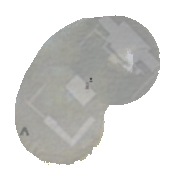
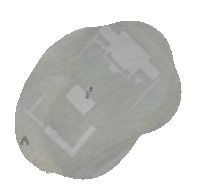
燕云补采第 10–15 点，小地图拼图覆盖到东半边和宝箱；定位可多个参考图依次试
- minimap_locate.py 支持多次采集（survey<N>/ 各自一套帧、锚点、轨迹），拼图合并所有采集
- track --relocate：逐帧链条漂移超过 4 px 的段改用已有参考图 locate 的可信读数定位
- eval 的留出集按拼图实际用了哪些趟自动划分；第 4 趟（东半边 244 帧）留出评测 100% 在 ±6 px 内，中位 0.5
- locate/cixin_mosaic 用 s1–s4 重新导出；宝箱点从认不出（0.17）变成 0.73、和 where() 差 0.3 px
- move.js goto / route.js locate 可传参考图数组，前一个认不出再试下一个；route_bench --refs 用 a+b 表示组合

diff --git a/workspaces/WhereWindsMeet/skills/move.js b/workspaces/WhereWindsMeet/skills/move.js
@@ -21,12 +21,13 @@
 //   sprint: true             hold dodge until its icon turns gold (sprinting), then let go; again if it drops;
 //                            given up after two presses that did not start one (dungeons may not allow it)
 //   {turn: 150}              drag the camera by this many px (right: positive), report the heading before and after
-//   {goto: [[-80, 110], [-72, 84]], ref: "locate/cixin_mosaic", from: [-108, 115]}  run through the points and stop
-//                            at the last (positions: big map px from the stronghold icon), knowing where it is on
-//                            every frame without the big map: locate() finds the minimap in the reference near where
-//                            dead reckoning (camera heading, joystick direction, sprint / run speed) puts it, and a
-//                            good match resets the reckoning. Sprints while far, lets go and runs the last stretch
-//                            so it does not overshoot. Stuck: the reckoning moves, the matches do not. See goTo()
+//   {goto: [[-80, 110], [-72, 84]], ref: ["locate/cixin_mosaic", "locate/cixin_bigmap"], from: [-108, 115]}
+//                            run through the points and stop at the last (positions: big map px from the stronghold
+//                            icon), knowing where it is on every frame without the big map: locate() finds the minimap
+//                            in the reference (the next one where the first cannot tell) near where dead reckoning
+//                            (camera heading, joystick direction, sprint / run speed) puts it, and a good match resets
+//                            the reckoning. Sprints while far, lets go and runs the last stretch so it does not
+//                            overshoot. Stuck: the reckoning moves, the matches do not. See goTo()
 import { angleDiff, bearingOf, cameraHeading, CENTER, enemies, onZone, zone } from "./lib/minimap.js";
 import { recognize as pickupPoint } from "./auto_pickup.js";
 import { calm } from "./lib/hud.js";
@@ -181,12 +182,16 @@ const bearingTo = (from, to) => (Math.atan2(to[0] - from[0], -(to[1] - from[1]))
 const distTo = (a, b) => Math.hypot(b[0] - a[0], b[1] - a[1]);
 
 /**
- * locate() near `prior` (null: the whole reference); the match when it can be trusted, else null.
- * @param {string} ref @param {Image} image @param {number | null} cam @param {Point | null} prior @param {number} radius
+ * locate() near `prior` (null: the whole reference) in each reference in turn (a stitched one where it was surveyed,
+ * the big map where not); the first match that can be trusted, else null.
+ * @param {string | string[]} ref @param {Image} image @param {number | null} cam @param {Point | null} prior @param {number} radius
  */
 function fix(ref, image, cam, prior, radius) {
-    const r = locate(ref, { image, cam, prior: prior ?? undefined, radius });
-    return r && r.score >= FIX_MIN && r.score - r.second >= FIX_MARGIN ? r : null;
+    for (const one of Array.isArray(ref) ? ref : [ref]) {
+        const r = locate(one, { image, cam, prior: prior ?? undefined, radius });
+        if (r && r.score >= FIX_MIN && r.score - r.second >= FIX_MARGIN) return r;
+    }
+    return null;
 }
 
 /**
@@ -198,7 +203,7 @@ function fix(ref, image, cam, prior, radius) {
  * SPRINT_STOP + 6 px off), letting go at SPRINT_STOP to end the sprint, running the rest.
  * Ends: arrived | stuck (no closer for GO_STUCK_MS after every way out) | astray | lost (no match for LOST_MS) |
  * fight (the top right icons hide) | time.
- * @param {{goto: Point[], ref: string, from?: Point, reach?: number, ms?: number, sprint?: boolean, face?: boolean}} args
+ * @param {{goto: Point[], ref: string | string[], from?: Point, reach?: number, ms?: number, sprint?: boolean, face?: boolean}} args
  */
 function goTo(args) {
     const path = args.goto;
@@ -380,7 +385,7 @@ function goTo(args) {
 
 /**
  * @param {{face?: boolean, bearing?: number, rel?: number, enemy?: boolean, zone?: boolean, zoneAt?: number, snap?: string, reachPx?: number, snapMin?: number, expect?: Point, lostMs?: number, near?: number, lockAt?: number, capture?: boolean, ms?: number, sprint?: boolean,
- *          pickup?: boolean, turn?: number, step?: number, goto?: Point[], ref?: string, from?: Point, reach?: number}} args
+ *          pickup?: boolean, turn?: number, step?: number, goto?: Point[], ref?: string | string[], from?: Point, reach?: number}} args
  * @param {SkillContext} [ctx]
  */
 export default function (args, ctx) {

diff --git a/workspaces/WhereWindsMeet/skills/route.js b/workspaces/WhereWindsMeet/skills/route.js
@@ -10,7 +10,7 @@
 // everything is done) taps 据点宝箱, 确认领取 with the panel's defaults (领取三份, 扫荡 9, teacher's choice, message 227)
 // and 继续 through the 攻占 result pages.
 //   {points: [{at: [-108, 115], snap: "route/cixin/00.png"}, ...], from: 1, to: 4}
-//   locate: "locate/cixin_mosaic"  instead: no snapshots and no big map on the way; move's goto knows where the character
+//   locate: ["locate/cixin_mosaic", "locate/cixin_bigmap"]  instead (one reference or several, tried in turn): no snapshots and no big map on the way; move's goto knows where the character
 //                            is on every frame (locate() of the minimap in that reference, dead reckoning between) and
 //                            runs through the points, stopping only where something is done and at the end.
 //                            start: where it starts (default: the point before `from`); check: true stops at every
@@ -129,7 +129,7 @@ function act(p, last) {
 
 /**
  * Continuous mode (args.locate): legs of move's goto from stop to stop.
- * @param {{points: {at: Point, name?: string, cam?: number, do?: string}[], from?: number, to?: number, reach?: number, locate: string, start?: Point, check?: boolean, nodo?: boolean}} args
+ * @param {{points: {at: Point, name?: string, cam?: number, do?: string}[], from?: number, to?: number, reach?: number, locate: string | string[], start?: Point, check?: boolean, nodo?: boolean}} args
  */
 function follow(args) {
     const from = args.from ?? 1;
@@ -185,7 +185,7 @@ function follow(args) {
     return out;
 }
 
-/** @param {{points: {at: Point, name?: string, snap?: string, cam?: number, do?: string}[], from?: number, to?: number, reach?: number, speed?: number, anchors?: string, locate?: string, start?: Point, check?: boolean, nodo?: boolean}} args */
+/** @param {{points: {at: Point, name?: string, snap?: string, cam?: number, do?: string}[], from?: number, to?: number, reach?: number, speed?: number, anchors?: string, locate?: string | string[], start?: Point, check?: boolean, nodo?: boolean}} args */
 export default function (args) {
     if (args.locate) return follow(/** @type {any} */ (args));
     const reach = args.reach ?? 6;

diff --git a/scripts/minimap_locate.py b/scripts/minimap_locate.py
@@ -11,8 +11,9 @@ px (fully zoomed in) from the stronghold icon, x east / y south, as stronghold.j
     uv run --extra cv python scripts/minimap_locate.py eval data/wwm       # errors per image, source and preprocessing
     uv run --extra cv python scripts/minimap_locate.py export data/wwm --runs s1,s2   # the app's references
 
-Data layout (data/wwm): survey1/ (grab_frames.py output: <seq>.jpg, frames.jsonl), anchors.json ([{run, n, seq,
-x, y, cam}], from route.js `anchors`; their screenshots in the workspace's teaching/survey/<run>/), bigmap/*.png +
+Data layout (data/wwm): survey<N>/ per grab_frames.py run (<seq>.jpg, frames.jsonl; anchors.json [{run, n, seq, x,
+y, cam}] from route.js `anchors`, their screenshots in the workspace's teaching/survey/<run>/; frames.npz and
+track.json made by cache / track --survey survey<N>), bigmap/*.png +
 bigmap/shots.json (big map screenshots and where the icon is), map_header.png (the big map's 单人 / 多人 header).
 
 What the survey showed: the minimap zooms in about 2x in the courtyard (1 minimap px = 1.15 big map px there, 2.3
@@ -403,9 +404,31 @@ def best_of(d, refs: list[Ref], p: Prep, prior=None, radius=40, cam=None):
 # ---- data
 
 
-def load_frames(root: Path):
-    fr = [json.loads(l) for l in open(root / "survey1" / "frames.jsonl", encoding="utf-8")]
-    return [(f["seq"], root / "survey1" / f"{f['seq']}.jpg") for f in fr]
+def load_frames(sd: Path):
+    fr = [json.loads(l) for l in open(sd / "frames.jsonl", encoding="utf-8")]
+    return [(f["seq"], sd / f"{f['seq']}.jpg") for f in fr]
+
+
+def surveys(root: Path) -> list[Path]:
+    """The survey directories (a grab_frames.py run each: frame numbers restart when the app restarts)."""
+    return sorted(d for d in root.glob("survey*") if (d / "anchors.json").exists())
+
+
+_NPZ: dict[Path, dict] = {}
+
+
+def frames_of(sd: Path) -> dict:
+    """A survey's frames.npz (`cache`), with idx: frame number -> row."""
+    if sd not in _NPZ:
+        z = dict(np.load(sd / "frames.npz"))
+        z["idx"] = {int(s): i for i, s in enumerate(z["seq"])}
+        _NPZ[sd] = z
+    return _NPZ[sd]
+
+
+def tracks(root: Path) -> list[dict]:
+    """Tracked frames of every survey (`track`), each with its survey's directory name."""
+    return [t | {"survey": sd.name} for sd in surveys(root) if (sd / "track.json").exists() for t in json.load(open(sd / "track.json"))]
 
 
 _HEADER = None
@@ -422,10 +445,10 @@ def in_world(img: np.ndarray, root: Path) -> bool:
     return heading(disc(img)) is not None
 
 
-def cache_frames(root: Path) -> None:
-    """frames.npz: every grabbed frame's minimap disc, whether it is the world screen, the camera heading."""
+def cache_frames(root: Path, sd: Path) -> None:
+    """<survey>/frames.npz: every grabbed frame's minimap disc, whether it is the world screen, the camera heading."""
     seqs, discs, world, cams = [], [], [], []
-    for seq, p in load_frames(root):
+    for seq, p in load_frames(sd):
         img = imread(p)
         if img is None:
             continue
@@ -433,7 +456,7 @@ def cache_frames(root: Path) -> None:
         w = in_world(img, root)
         c = heading(d) if w else None
         seqs.append(seq), discs.append(d), world.append(w), cams.append(np.nan if c is None else c)
-    np.savez(root / "frames.npz", seq=np.array(seqs), world=np.array(world), disc=np.array(discs), cam=np.array(cams))
+    np.savez(sd / "frames.npz", seq=np.array(seqs), world=np.array(world), disc=np.array(discs), cam=np.array(cams))
 
 
 def good_frames(world: np.ndarray) -> np.ndarray:
@@ -469,17 +492,22 @@ def _chain(D, cam, fr, p: Prep, k: float, start: np.ndarray, step_max=5.0, sc_mi
     return np.array(pos), scores
 
 
-def track(root: Path, p: Prep) -> list[dict]:
+MAX_DRIFT = 4.0  # a chain that missed its end anchor by more than this is not trusted (big map px)
+
+
+def track(root: Path, sd: Path, p: Prep, relocate: list[tuple[list[Ref], Prep]] | None = None) -> list[dict]:
     """Positions of the grabbed frames between anchors (route.js `anchors`, where() before each look at the map).
     Each stretch between two looks starts zoomed out (closing the map resets the minimap) and, in the courtyard,
     zooms in after a second or two. Frames are told apart by which zoom of the big map they match better (only the
     zoom is taken from it); the zoomed-out part is chained forward from the anchor it starts at, the zoomed-in part
     backward from the anchor it ends at; a stretch that stays zoomed out is chained forward and its drift at the end
-    spread along the way."""
-    z = np.load(root / "frames.npz")
+    spread along the way. Long runs across the courtyard can wobble off by 20 px and more: with `relocate`
+    (references and their preprocessing, tried in turn), the frames of a stretch that drifted more than MAX_DRIFT are
+    placed by locate() instead (near where the anchors put them; only trusted matches, the rest left out)."""
+    z = frames_of(sd)
     seq, D, cam = z["seq"], z["disc"], z["cam"]
     good = good_frames(z["world"])
-    anchors = json.load(open(root / "anchors.json"))
+    anchors = json.load(open(sd / "anchors.json"))
     refs = [bigmap_ref(root, "out"), bigmap_ref(root, "in")]
     out, fits = [], []
     for a0, a1 in zip(anchors, anchors[1:]):
@@ -509,7 +537,19 @@ def track(root: Path, p: Prep) -> list[dict]:
             steps = np.r_[0, np.cumsum(np.linalg.norm(np.diff(pos, axis=0), axis=1))]
             drift = B - pos[-1]
             pos = pos + np.outer(steps / max(steps[-1], 1e-6), drift)
-            rows += [(fr[t], pos[t], zm, "spread") for t in range(len(fr))]
+            if relocate and np.linalg.norm(drift) > MAX_DRIFT:
+                n0 = len(rows)
+                for t, i in enumerate(fr):
+                    prior = tuple(A + (B - A) * t / max(1, len(fr) - 1))
+                    c = None if np.isnan(cam[i]) else float(cam[i])
+                    for refs, q in relocate:
+                        r = best_of(D[i], refs, q, prior, 45, c)
+                        if r and r[0]["score"] >= 0.4 and r[0]["score"] - r[0]["second"] >= 0.1:
+                            rows.append((i, np.array([r[0]["x"], r[0]["y"]]), zm, "locate"))
+                            break
+                print(seg, "relocated", len(rows) - n0, "of", len(fr))
+            else:
+                rows += [(fr[t], pos[t], zm, "spread") for t in range(len(fr))]
             fits.append((zm, raw[-1], B - A, steps[-1]))
             print(seg, zm, len(fr), "drift", np.round(drift, 1), "path", round(float(steps[-1]), 1))
         else:
@@ -523,14 +563,15 @@ def track(root: Path, p: Prep) -> list[dict]:
             print(seg, "out", n_out, "in", len(fr) - n_in, "of", len(fr))
         for i, q, zm, how in sorted(rows, key=lambda r: r[0]):
             out.append({"seq": int(seq[i]), "x": round(float(q[0]), 2), "y": round(float(q[1]), 2), "zoom": zm,
-                        "how": how, "seg": seg, "run": a0["run"][:2]})
+                        "how": how, "seg": seg, "run": a0["run"][:2],
+                        **({"drift": round(float(np.linalg.norm(drift)), 1)} if how == "spread" else {})})
     for zm in ZOOMS:  # the zoom that fits the chains best (stretches that moved, that did not go astray)
         f = [(c, d) for z_, c, d, path in fits if z_ == zm and np.linalg.norm(d) > 8 and path < 2 * np.linalg.norm(d) + 10]
         if f:
             c, d = np.array([x[0] for x in f]), np.array([x[1] for x in f])
             k = (c * d).sum() / (c * c).sum()
             print(zm, "zoom fit", round(float(k), 3), "from", len(f), "stretches; residuals", np.round(np.linalg.norm(d - k * c, axis=1), 1))
-    json.dump(out, open(root / "track.json", "w"), indent=0)
+    json.dump(out, open(sd / "track.json", "w"), indent=0)
     return out
 
 
@@ -576,12 +617,9 @@ def stitch(root: Path, zoom: str, runs=("s1",), k: float | None = None, max_drif
     Returns (image, valid, origin, spread): spread is the median absolute deviation of the samples, a measure of how
     well the frames line up (smaller is better; used to fit k)."""
     k = k or ZOOMS[zoom]
-    tr = [t for t in json.load(open(root / "track.json")) if t["run"] in {r[:2] for r in runs} and t["zoom"] == zoom]
+    tr = [t for t in tracks(root) if t["run"] in {r[:2] for r in runs} and t["zoom"] == zoom]
     bad = set(json.load(open(root / "track_drift.json")).get("bad", [])) if (root / "track_drift.json").exists() else set()
-    tr = [t for t in tr if t["seg"] not in bad]
-    z = np.load(root / "frames.npz")
-    idx = {int(s): i for i, s in enumerate(z["seq"])}
-    D, cam = z["disc"], z["cam"]
+    tr = [t for t in tr if t["seg"] not in bad and t.get("drift", 0) <= max_drift]
     xs, ys = [t["x"] for t in tr], [t["y"] for t in tr]
     pad = C + 4
     x0, y0 = min(xs) / k - pad, min(ys) / k - pad
@@ -593,11 +631,12 @@ def stitch(root: Path, zoom: str, runs=("s1",), k: float | None = None, max_drif
         if last is not None and math.hypot(u - last[0], v - last[1]) < step:
             continue
         last = (u, v)
-        i = idx[t["seq"]]
-        c = None if np.isnan(cam[i]) else float(cam[i])
-        m = disc_mask(D[i], Prep(zone="mask", sat_max=0), c)
+        z = frames_of(root / t["survey"])
+        i = z["idx"][t["seq"]]
+        c = None if np.isnan(z["cam"][i]) else float(z["cam"][i])
+        m = disc_mask(z["disc"][i], Prep(zone="mask", sat_max=0), c)
         M = np.float32([[1, 0, u - C], [0, 1, v - C]])
-        stack.append(cv2.warpAffine(D[i], M, (w, h), flags=cv2.INTER_LINEAR))
+        stack.append(cv2.warpAffine(z["disc"][i], M, (w, h), flags=cv2.INTER_LINEAR))
         masks.append(cv2.warpAffine(m.astype(np.uint8), M, (w, h), flags=cv2.INTER_NEAREST) > 0)
     S = np.array(stack).astype(np.float32)
     V = np.array(masks)
@@ -672,12 +711,12 @@ PREPS = {
 }
 
 
-def eval_items(root: Path, holdout=("s2",), every: int = 2):
+def eval_items(root: Path, holdout=("s2", "s4"), every: int = 2):
     """(name, disc, truth, category, split) to test on: the anchor screenshots, the known teaching screenshots, and
     every `every`-th tracked frame. split: train (its run went into the mosaic) / test."""
     items = []
     inside = lambda x, y: y < 52 and x > -48  # past the gate
-    for a in json.load(open(root / "anchors.json")):
+    for a in (a for sd in surveys(root) for a in json.load(open(sd / "anchors.json"))):
         d = disc(imread(WS / "teaching" / "survey" / a["run"] / f"{a['n']:03d}.png")).copy()
         split = "test" if a["run"][:2] in holdout else "train"
         items.append((f"anchor {a['run']}/{a['n']}", d, (a["x"], a["y"]), "in" if inside(a["x"], a["y"]) else "out", split))
@@ -686,13 +725,12 @@ def eval_items(root: Path, holdout=("s2",), every: int = 2):
         d = disc(imread((known if known.is_dir() else WS / "teaching" / "explore") / f"{f}.png")).copy()
         cat = ("in-zone" if zone_region(d).any() else "in") if inside(*xy) else ("out-zone" if zone_region(d).any() else "out")
         items.append((f"known {f}", d, xy, cat, "test"))
-    z = np.load(root / "frames.npz")
-    idx = {int(s): i for i, s in enumerate(z["seq"])}
     bad = set(json.load(open(root / "track_drift.json")).get("bad", []))
-    tr = [t for t in json.load(open(root / "track.json")) if t["seg"] not in bad]
+    tr = [t for t in tracks(root) if t["seg"] not in bad and t.get("drift", 0) <= MAX_DRIFT]
     for t in tr[::every]:
         split = "test" if t["run"] in holdout else "train"
-        items.append((f"frame {t['seq']}", z["disc"][idx[t["seq"]]], (t["x"], t["y"]),
+        z = frames_of(root / t["survey"])
+        items.append((f"frame {t['survey']}/{t['seq']}", z["disc"][z["idx"][t["seq"]]], (t["x"], t["y"]),
                       "in" if inside(t["x"], t["y"]) else "out", split))
     return items
 
@@ -796,6 +834,8 @@ def main() -> None:
     ap = argparse.ArgumentParser()
     ap.add_argument("cmd", choices=["cache", "bigmap", "track", "stitch", "eval", "export"])
     ap.add_argument("root", type=Path)
+    ap.add_argument("--survey", default="survey1", help="cache / track: the survey directory")
+    ap.add_argument("--relocate", default="", help="track: a mosaic directory (e.g. mosaic_s1_s2) to place drifted stretches with")
     ap.add_argument("--runs", default="s1", help="stitch: the survey runs that make the mosaic (the rest test it)")
     ap.add_argument("--preps", default="", help="eval: preprocessings to try (PREPS keys), default all")
     ap.add_argument("--every", type=int, default=2, help="eval: every n-th tracked frame")
@@ -806,12 +846,17 @@ def main() -> None:
     if a.native:
         global NATIVE
         NATIVE = Native(a.native)
+    sd = a.root / a.survey
     if a.cmd == "cache":
-        cache_frames(a.root)
+        cache_frames(a.root, sd)
     elif a.cmd == "bigmap":
         build_bigmap(a.root)
     elif a.cmd == "track":
-        track(a.root, TRACK_PREP)
+        rel = None
+        if a.relocate:  # the references made so far: the mosaic, then the big map
+            rel = [([mosaic_ref(a.root, z, a.relocate) for z in ZOOMS], PREPS[APP_PREPS["mosaic"]]),
+                   ([bigmap_ref(a.root, z) for z in ZOOMS], PREPS[APP_PREPS["bigmap"]])]
+        track(a.root, sd, TRACK_PREP, rel)
     elif a.cmd == "stitch":
         for zoom in ZOOMS:
             save_mosaic(a.root, zoom, a.runs.split(","), ZOOMS[zoom])
@@ -820,7 +865,9 @@ def main() -> None:
     elif a.cmd == "eval":
         sources = {"bigmap": [bigmap_ref(a.root, z) for z in ZOOMS], "mosaic": [mosaic_ref(a.root, z) for z in ZOOMS]}
         preps = {k: PREPS[k] for k in a.preps.split(",")} if a.preps else PREPS
-        items = eval_items(a.root, every=a.every)
+        used = set(json.load(open(a.root / "mosaic" / "in.json"))["runs"])  # the rest tests the mosaic
+        runs = {x["run"][:2] for sd in surveys(a.root) for x in json.load(open(sd / "anchors.json"))}
+        items = eval_items(a.root, holdout=tuple(sorted(runs - used)), every=a.every)
         rows = evaluate(a.root, sources, preps, items, full=not a.near_only,
                         out_path=a.root / ("eval_native.jsonl" if a.native else "eval.jsonl"))
         print_summary(summary([r for r in rows if r["split"] == "test" or r["source"] == "bigmap"]))

diff --git a/scripts/route_bench.py b/scripts/route_bench.py
@@ -2,6 +2,8 @@
 
     uv run python scripts/route_bench.py data/wwm/bench --refs locate/cixin_mosaic,locate/cixin_bigmap --rounds 5
 
+--refs: comma separated, one set of rounds each; a+b tries b where a cannot tell.
+
 Each round: the teleport node (CixinTeleport), then route.js through points 1..TO of CixinRoute with check: true
 (stops at every point and reads where() there: the arrival error) and nodo: true. A walk that ends stuck, astray or
 lost is counted against the point it was heading for, and the round starts over from the stone; a point that failed
@@ -53,7 +55,7 @@ def main() -> None:
                     walks.append({"error": "teleport failed"})
                     break
                 keep = [i for i in range(len(points)) if i == 0 or i not in skip]
-                args = {"points": [points[i] for i in keep], "from": 1, "to": len(keep) - 1, "locate": ref,
+                args = {"points": [points[i] for i in keep], "from": 1, "to": len(keep) - 1, "locate": ref.split("+"),
                         "check": True, "nodo": True}
                 w0 = time.time()
                 r = c.post("/skill/run", {"name": "route", "args": args, "timeout": 900_000}, timeout=960)
